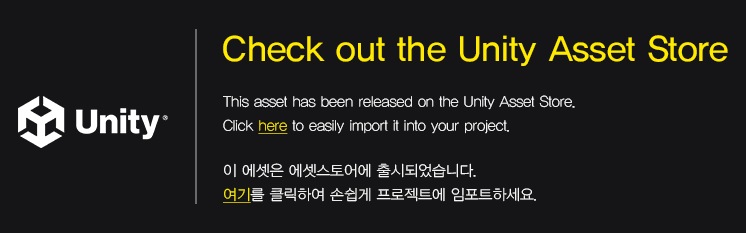
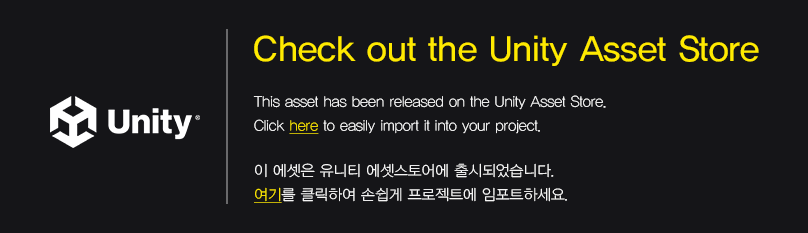
Update Readme

Changed region(s): [[0.0, 0.1202, 0.9866, 0.8712]]

diff --git a/readme.md b/readme.md
@@ -1,4 +1,4 @@
-[![assetstoreGuide](https://github.com/KimYC1223/UnityPathGenerator/blob/master/ReadmeImage/assetstore.png?raw=true)](https://assetstore.unity.com/packages/tools/game-toolkits/curved-path-generator-243012)
+<a href="https://assetstore.unity.com/packages/tools/game-toolkits/curved-path-generator-243012"><img src="https://github.com/KimYC1223/UnityPathGenerator/blob/master/ReadmeImage/assetstore.png?raw=true" alt="Asset Store Guide" width="100%"></a>
 
 <br>
 
